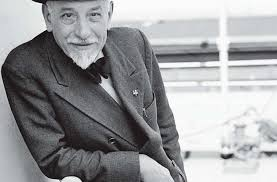
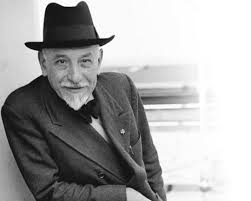
Aggiornati riferimenti in tutte le modali e nella pagina conclusione. Rimossi aspect-ratio da immagini. Ristrutturata modale Italiano. Fix allineamento immagini.

diff --git a/index.html b/index.html
@@ -776,11 +776,13 @@
     }
 
     .immagine-verticale {
-      aspect-ratio: 3 / 5;
+      width: 100%;
+      height: auto;
     }
 
     .immagine-orizzontale {
-      aspect-ratio: 16 / 9;
+      width: 100%;
+      height: auto;
     }
 
     .immagine-quadrata {
@@ -1507,6 +1509,7 @@
         <div class="riferimenti-modale">
           <p class="riferimenti-modale-titolo">Riferimenti</p>
           <a href="https://www.federalreservehistory.org/essays/stock-market-crash-of-1929" target="_blank" rel="noopener noreferrer">Federal Reserve History - Crollo del 1929</a>
+          <a href="https://www.britannica.com/event/Great-Depression" target="_blank" rel="noopener noreferrer">Britannica - Great Depression</a>
         </div>
       </div>
     </div>
@@ -1538,6 +1541,7 @@
         <div class="riferimenti-modale">
           <p class="riferimenti-modale-titolo">Riferimenti</p>
           <a href="https://www.britannica.com/place/United-States" target="_blank" rel="noopener noreferrer">Britannica - United States</a>
+          <a href="https://www.britannica.com/place/Silicon-Valley-region-California" target="_blank" rel="noopener noreferrer">Britannica - Silicon Valley</a>
         </div>
       </div>
     </div>
@@ -1548,20 +1552,18 @@
         <a class="chiudi-modal" href="#mappa" aria-label="Chiudi">&times;</a>
         <p class="etichetta-modal">Italiano - Collegamento con Economia</p>
 
-        <p class="sezione-titolo">Pirandello e l'io individuale</p>
-        <div class="contenuto-con-immagine">
+        <div class="contenuto-con-immagine" style="align-items: start;">
           <img class="immagine-testo immagine-verticale" src="immagini/ita/pir.png" alt="Luigi Pirandello">
           <div>
             <p>Luigi Pirandello, nei suoi romanzi e nelle sue opere teatrali, riflette sulla crisi dell'identità dell'uomo moderno. Secondo Pirandello, ogni persona possiede un <strong>"io individuale"</strong> autentico e privato, che però viene continuamente schiacciato dalle <strong>"maschere"</strong> imposte dalla società. La società ci obbliga a recitare ruoli fissi (padre, lavoratore, cittadino) che non corrispondono mai al nostro vero io. Questa frattura tra ciò che siamo realmente e ciò che dobbiamo mostrare è la causa della sofferenza e dell'alienazione dell'individuo.</p>
           </div>
         </div>
 
-        <p class="sezione-titolo">Il collegamento con l'economia</p>
-        <div class="contenuto-con-immagine">
-          <img class="immagine-testo immagine-verticale" src="immagini/ita/mas.png" alt="Maschere teatro">
+        <div class="contenuto-con-immagine" style="align-items: start;">
           <div>
             <p>Il tema dell'io individuale si lega all'economia perché il sistema economico costringe le persone a identificarsi con il proprio <strong>ruolo lavorativo</strong>. Siamo ciò che produciamo, ciò che guadagniamo, il posto che occupiamo nella gerarchia sociale. Pirandello mostra come l'uomo venga ridotto a una "forma" economica, perdendo la sua "vita" autentica. L'esempio più chiaro è il romanzo <strong><em>Il fu Mattia Pascal</em></strong>: il protagonista, stanco della sua vita opprimente, simula la propria morte e cerca di vivere libero, ma scopre che senza un'identità sociale (e quindi anche economica) non può esistere nella società. Anche in <strong><em>Uno, nessuno e centomila</em></strong> Vitangelo Moscarda scopre di essere "centomila" persone diverse per gli altri e "nessuno" per sé stesso, distrutto dalle aspettative sociali. Pirandello ci insegna che l'economia non è solo numeri e produzione, ma riguarda anche la dignità della persona e il diritto di essere sé stessi.</p>
           </div>
+          <img class="immagine-testo immagine-verticale" src="immagini/ita/mas.png" alt="Maschere teatro">
         </div>
 
         <div class="riferimenti-modale">
@@ -1753,6 +1755,7 @@
         <div class="riferimenti-modale">
           <p class="riferimenti-modale-titolo">Riferimenti</p>
           <a href="https://economiapertutti.bancaditalia.it/" target="_blank" rel="noopener noreferrer">Banca d'Italia - L'economia per tutti</a>
+          <a href="https://www.consob.it/web/area-pubblica/educazione-finanziaria" target="_blank" rel="noopener noreferrer">CONSOB - Educazione finanziaria</a>
         </div>
       </div>
     </div>
@@ -1833,10 +1836,10 @@
             <span class="nota-riferimento">Informazioni su geografia, storia ed economia degli Stati Uniti.</span>
           </li>
           <li>
-            <a href="https://www.treccani.it/enciclopedia/verismo_%28Enciclopedia-dei-ragazzi%29/" target="_blank" rel="noopener noreferrer">
-              Treccani - Verismo
+            <a href="https://www.treccani.it/enciclopedia/luigi-pirandello/" target="_blank" rel="noopener noreferrer">
+              Treccani - Luigi Pirandello
             </a>
-            <span class="nota-riferimento">Collegamento tra letteratura verista, lavoro e condizioni sociali.</span>
+            <span class="nota-riferimento">Biografia, opere e pensiero di Luigi Pirandello, l'io individuale e le maschere.</span>
           </li>
           <li>
             <a href="https://science.nasa.gov/mission/new-horizons/" target="_blank" rel="noopener noreferrer">
@@ -1875,16 +1878,28 @@
             <span class="nota-riferimento">Approfondimento storico in italiano sulla Guerra civile spagnola.</span>
           </li>
           <li>
-            <a href="https://www.treccani.it/enciclopedia/produzione_%28Enciclopedia-dei-ragazzi%29/" target="_blank" rel="noopener noreferrer">
-              Treccani - Produzione
+            <a href="https://www.treccani.it/enciclopedia/petrolio/" target="_blank" rel="noopener noreferrer">
+              Treccani - Petrolio
             </a>
-            <span class="nota-riferimento">Definizione di produzione e rapporto con materie prime, lavoro e strumenti.</span>
+            <span class="nota-riferimento">Definizione, storia e utilizzo economico del petrolio.</span>
           </li>
           <li>
-            <a href="https://www.treccani.it/enciclopedia/tecnologia/" target="_blank" rel="noopener noreferrer">
-              Treccani - Tecnologia
+            <a href="https://www.treccani.it/enciclopedia/storia-del-petrolio/" target="_blank" rel="noopener noreferrer">
+              Treccani - Storia del petrolio
             </a>
-            <span class="nota-riferimento">Riferimento generale sul concetto di tecnologia.</span>
+            <span class="nota-riferimento">Evoluzione storica del petrolio dall'Ottocento a oggi.</span>
+          </li>
+          <li>
+            <a href="https://www.iea.org/reports/oil-market-report-june-2026" target="_blank" rel="noopener noreferrer">
+              IEA - Oil Market Report, giugno 2026
+            </a>
+            <span class="nota-riferimento">Rapporto IEA sull'andamento del mercato petrolifero globale.</span>
+          </li>
+          <li>
+            <a href="https://www.bancaditalia.it/pubblicazioni/proiezioni-macroeconomiche/2026/Proiezioni-macroeconomiche-Italia-giugno-2026.pdf" target="_blank" rel="noopener noreferrer">
+              Banca d'Italia - Proiezioni macroeconomiche, giugno 2026
+            </a>
+            <span class="nota-riferimento">Stime aggiornate su crescita PIL, inflazione e occupazione in Italia.</span>
           </li>
           <li>
             <a href="https://www.tate.org.uk/art/art-terms/p/pop-art/think-you-know-pop-art" target="_blank" rel="noopener noreferrer">
@@ -1899,28 +1914,34 @@
             <span class="nota-riferimento">Scheda biografica sull'artista Tano Festa.</span>
           </li>
           <li>
-            <a href="https://www.treccani.it/enciclopedia/l-economia-dello-sport-nella-societa-moderna_%28Enciclopedia-dello-Sport%29/" target="_blank" rel="noopener noreferrer">
-              Treccani - Economia dello sport
+            <a href="https://www.treccani.it/enciclopedia/olimpiadi-estive-los-angeles-1932_(Enciclopedia-dello-Sport)/" target="_blank" rel="noopener noreferrer">
+              Treccani - Los Angeles 1932
             </a>
-            <span class="nota-riferimento">Approfondimento sull'impatto economico dello sport moderno.</span>
+            <span class="nota-riferimento">Scheda storica sulle Olimpiadi di Los Angeles del 1932.</span>
           </li>
           <li>
-            <a href="https://www.wipo.int/en/web/wipo-magazine/articles/sport-and-broadcasting-rights-adding-value-38430" target="_blank" rel="noopener noreferrer">
-              WIPO - Sport e diritti televisivi
+            <a href="https://stillmed.olympic.org/Documents/Reports/Official%20Past%20Games%20Reports/Summer/1932/ENG/1932-RO-S-Los%20Angeles_III.pdf" target="_blank" rel="noopener noreferrer">
+              Official Report - Los Angeles 1932
             </a>
-            <span class="nota-riferimento">Collegamento tra sport, media, diritti e valore economico.</span>
+            <span class="nota-riferimento">Rapporto ufficiale del Comitato Organizzatore dei Giochi del 1932.</span>
           </li>
           <li>
-            <a href="https://www.senato.it/istituzione/la-costituzione/principi-fondamentali/articolo-1" target="_blank" rel="noopener noreferrer">
-              Senato della Repubblica - Articolo 1 della Costituzione
+            <a href="https://www.pbssocal.org/shows/lost-la/the-olympic-village-in-los-angeles" target="_blank" rel="noopener noreferrer">
+              PBS - The First Olympic Village
             </a>
-            <span class="nota-riferimento">Riferimento al lavoro come fondamento della Repubblica.</span>
+            <span class="nota-riferimento">Documentario e articolo sul primo villaggio olimpico della storia.</span>
           </li>
           <li>
-            <a href="https://www.senato.it/node/150/printable/print" target="_blank" rel="noopener noreferrer">
-              Senato della Repubblica - Articolo 53 della Costituzione
+            <a href="https://economiapertutti.bancaditalia.it/" target="_blank" rel="noopener noreferrer">
+              Banca d'Italia - L'economia per tutti
             </a>
-            <span class="nota-riferimento">Riferimento alle tasse e alla capacità contributiva.</span>
+            <span class="nota-riferimento">Guida di educazione finanziaria della Banca d'Italia.</span>
+          </li>
+          <li>
+            <a href="https://www.treccani.it/enciclopedia/roma-antica-economia/" target="_blank" rel="noopener noreferrer">
+              Treccani - Economia romana
+            </a>
+            <span class="nota-riferimento">Approfondimento sull'economia della Roma antica: agricoltura, commercio, schiavitù.</span>
           </li>
           <li>
             <a href="https://www.britannica.com/place/Roman-Empire" target="_blank" rel="noopener noreferrer">
@@ -1929,10 +1950,34 @@
             <span class="nota-riferimento">Contesto storico sull'Impero romano, commercio e infrastrutture.</span>
           </li>
           <li>
+            <a href="https://www.vatican.va/content/pius-xi/it/encyclicals/documents/hf_p-xi_enc_19310515_quadragesimo-anno.html" target="_blank" rel="noopener noreferrer">
+              Vaticano - Quadragesimo Anno
+            </a>
+            <span class="nota-riferimento">Testo integrale dell'enciclica di Pio XI sulla ricostruzione dell'ordine sociale.</span>
+          </li>
+          <li>
             <a href="https://www.vatican.va/roman_curia/pontifical_councils/justpeace/documents/rc_pc_justpeace_doc_20060526_compendio-dott-soc_it.html" target="_blank" rel="noopener noreferrer">
               Vaticano - Dottrina sociale della Chiesa
             </a>
-            <span class="nota-riferimento">Riferimento su lavoro, giustizia sociale, solidarieta e bene comune.</span>
+            <span class="nota-riferimento">Riferimento su lavoro, giustizia sociale, solidarietà e bene comune.</span>
+          </li>
+          <li>
+            <a href="https://www.britannica.com/event/Great-Depression" target="_blank" rel="noopener noreferrer">
+              Britannica - Great Depression
+            </a>
+            <span class="nota-riferimento">Approfondimento sulla Grande Depressione e il New Deal.</span>
+          </li>
+          <li>
+            <a href="https://www.britannica.com/place/Silicon-Valley-region-California" target="_blank" rel="noopener noreferrer">
+              Britannica - Silicon Valley
+            </a>
+            <span class="nota-riferimento">Storia e sviluppo economico della Silicon Valley.</span>
+          </li>
+          <li>
+            <a href="https://www.consob.it/web/area-pubblica/educazione-finanziaria" target="_blank" rel="noopener noreferrer">
+              CONSOB - Educazione finanziaria
+            </a>
+            <span class="nota-riferimento">Guida dell'autorità di vigilanza sui temi di educazione finanziaria.</span>
           </li>
         </ul>
       </div>